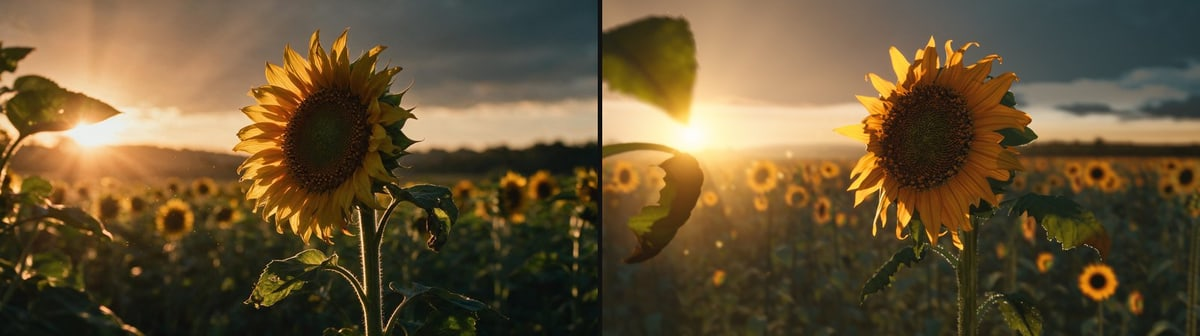
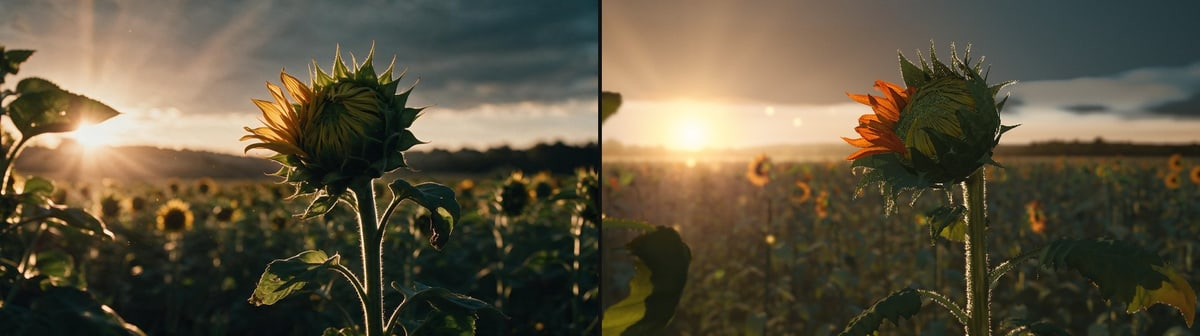
Status 26: growth after round 3, stem pass 4 and ground step 2 merged, decisions logged

diff --git a/kit/PROGRESS.md b/kit/PROGRESS.md
@@ -14,8 +14,8 @@ The Builder's memory. Read this first in every task. Update it before every comm
 - Extensions: 0
 - Extension step: none
 - App URL: https://sunflower-film.pplx.app
-- Last push: 2026-11-21 10:43 UTC · Round 3 judged: R1 5, R3 4, R4 4, jury passes; summary and Status 25; bud, petals, skin, golden, stem and field merged
-- Last status: 25 · 2026-11-21 10:42 UTC · Phase 3 · unit bloom
+- Last push: 2026-11-21 11:09 UTC · Status 26: growth after round 3, stem pass 4 and ground step 2 merged, decisions logged
+- Last status: 26 · 2026-11-21 11:07 UTC · Phase 3 · unit bloom
 
 "Build" is one of `not started`, `in progress`, `complete` or `extension N in progress`. "Budget" is one of `running` or `reported`. `AGENTS.md` says what each means.
 
@@ -23,6 +23,7 @@ The Builder's memory. Read this first in every task. Update it before every comm
 
 Newest first. Each line names the pictures of one status in `out/stills/status/`, with the time and the caption, so this page shows where the film is.
 
+- 2026-11-21 11:07 UTC · status 26 · Phase 3 · unit bloom · `status-1.jpg`: 39.5 s to 51.5 s after the growth change (drafts): the frost bud, then the bloom about every second; `status-2.jpg`: 45.0 s: approved left, ours right (draft); `status-3.jpg`: 50.5 s: approved left, ours right (draft)
 - 2026-11-21 10:42 UTC · status 25 · Phase 3 · unit bloom · `status-1.jpg`: 45.0 s: approved (left), film now (right); `status-2.jpg`: 50.5 s: approved (left), film now (right); `status-3.jpg`: The head at 45 s: approved (left), film now (right); `status-4.jpg`: The head at 50.5 s: approved (left), film now (right)
 - 2026-11-21 10:18 UTC · status 24 · Phase 3 · unit bloom · `status-1.jpg`: Frame 1350 as round 3 judges it, final tier (right), beside the approved image (left); `status-2.jpg`: Frame 1515 as round 3 judges it, final tier (right), beside the approved image (left); `status-3.jpg`: Next build, not yet judged: the rays open as a front from the sun side, 43 to 50.5 s (rendered by an agent from the growth branch); `status-4.jpg`: Next build, not yet judged: glow and shafts in place of the star spikes at 45 s (above), the approved image (below)
 - 2026-11-21 09:55 UTC · status 23 · Phase 3 · unit bloom · `status-1.jpg`: Frame 1350 (45.0 s): approved image left, build right; `status-2.jpg`: Frame 1515 (50.5 s): approved image left, build right
@@ -34,7 +35,6 @@ Newest first. Each line names the pictures of one status in `out/stills/status/`
 - 2026-11-21 06:54 UTC · status 17 · Phase 2 · `status-1.jpg`: Whole film, frames 0 to 565 (dawn, rain); `status-2.jpg`: Whole film, frames 617 to 1183 (rain, night, frost); `status-3.jpg`: Whole film, frames 1234 to 1799 (bloom, field); `status-4.jpg`: Autopilot on the hosted app: seven screenshots taken while the film played
 - 2026-11-21 06:39 UTC · status 16 · Phase 2 · `status-1.jpg`: Whole film, frames 0 to 565 (dawn, rain); `status-2.jpg`: Whole film, frames 617 to 1183 (rain, night, frost); `status-3.jpg`: Whole film, frames 1234 to 1799 (bloom, field); `status-4.jpg`: Frame 1333 in the focus view: green is the sharp zone. It is a ring round the closed bud where it should be the bud's face
 - 2026-11-21 06:04 UTC · status 15 · Phase 2 · round 2 · `status-1.jpg`: The head from 41 s to 58.5 s after the fix, ten frames in order: it turns one way only; `status-2.jpg`: Bloom-opening and bloom-hero keys: approved image (left), blockout frame (right); `status-3.jpg`: Night, frost and field keys: approved image (left), blockout frame (right)
-- 2026-11-21 05:31 UTC · status 14 · Phase 2 · round 2 · `status-1.jpg`: The film from 40 to 60 s after the round 1 fixes, twelve frames in order; `status-2.jpg`: Night, frost and bloom-opening keys: approved image (left), blockout frame (right); `status-3.jpg`: Bloom-hero and field keys: approved image (left), blockout frame (right)
 
 ## Clock
 
@@ -45,11 +45,11 @@ Copied from the output of `npm run clock` at every status. Working time only.
 | 0 | 1.50 h | 1.08 h |
 | 1 | 0.50 h | 0.05 h |
 | 2 | 3.50 h | 4.92 h |
-| 3 | 9.00 h | 3.80 h |
+| 3 | 9.00 h | 4.21 h |
 | 4 | 8.50 h | 0.00 h |
 | 5 | 3.00 h | 0.00 h |
 | 6 | 4.00 h | 0.00 h |
-| Whole build | 30.00 h | 9.85 h |
+| Whole build | 30.00 h | 10.26 h |
 
 Continuations and extensions are listed under this table with their own hours.
 
@@ -388,6 +388,12 @@ One line each: the date, the phase, the decision and why.
 - 2026-11-21 · Phase 3 · 10:21 to 10:24 UTC: `main` went from `3b38ab9` to `09ef64a` by fast forward to a branch prepared in a second working tree while the round's renders ran, so the main tree was never edited under a render. In order: the Builder's growth change for 45 s (`f01526d`), the lens pass 4 (`8270a2e`: the star spikes replaced by a soft glow that follows the visible sun), the field (`1056083`), the ground (`24326dd`) with `1b437f0` in `src/director/film.ts` (the ground's casters in the scene and shadow lists, the ground hidden when the plant is shown alone, the shadow map never narrower than the smaller of what is seen and half a meter), the golden world (`3658c00`), the leaves (`24691a8`: stalks about 7 mm thick, larger upper blades, hairs on the margins). Checked on `main`: type check and build clean, 86 of 86 tests, frames 1350 and 1515 at `review` beside the approved pair, frames 45, 420, 780, 1080 and 1755 at `draft`. Round 3 still judges `3e10245`; all of this is judged in round 4.
 - 2026-11-21 · Phase 3 · What the round 3 critics said about the cut at 40.00 s, checked against the film. R4 scores 4 with one severe issue (the plant swaps shape in one frame) and two majors about the same cut (the horizon steps, the camera's speed changes). Measured: frames 1199 and 1200 on `main` show the same head and the same leaves in the same places (`out/work/scratch/view/cut-1199-1200.jpg`); G12 finds every cut's worst step at 1.00 of 1.5 for the plant's shape and the camera; the camera path gives a horizon that climbs 0.64 px a frame and a far point that pans 2.09 px a frame at 1920 wide on both sides of the cut, with no step (`out/work/scratch/cutcam.ts`). So the geometry and the move are continuous and the film's rule holds. What differs is how each world shows them: fog light shows the pale underside of the head and every leaf in grey, the golden backlight shows a dark ball and loses the right leaf against the dark field; the fog hides everything far, so the move only becomes visible after the cut; the golden world has hills above the field's edge where the fog shows only the edge. The kit lets a severe or major issue be declined only against an approved image, a choice of Brandon's or a settled line, so none of the three is declined. They are open issues of the cut with two owners: `bloom` must show the plant's form in the shade in its first frames (the skin's raised shade, less lift taken away by the lens), and in Phase 4 the `frost` unit lights the bud so that it reads closed, draws the same ridge faintly through its fog at the same height and keeps something far in view that shows the move.
 
+- 2026-11-21 · Phase 3 · Round 3 briefs went to eleven agents at about 10:52 UTC (`out/work/briefs/p3/r3/`): each got the round's issues for its part with the critic's words, the measured targets from the approved pair, and a report time of 11:35 UTC. `harness_builder` now fits the companion (the neighbor at the left edge) on a new branch `agent/companion` and reports numbers and a patch that the Builder applies; `disc_builder` is back at work on the round's three notes for the disc.
+- 2026-11-21 · Phase 3 · G3 was red in round 3 (two renders of frame 1515 differed). `modes_builder` found the cause: the leaf shader discarded the pixels of a leaf's holes before it took screen derivatives, so the derivatives beside a hole were undefined and changed from run to run. Its fix (`50cd31b`) cuts the holes after shading; it ran `npm run determinism` green with it. Merged at `b3fcf5d` (10:54 UTC) with the lens pass 5 (`c86bb30`: shafts with a floor under a covered sun, glow over the hill edge, grain by tone) and the hairs' pass 4 (`a4e1dbd`: the fringe holds what a silhouette can carry, warm white).
+- 2026-11-21 · Phase 3 · The Builder's growth change after round 3 (`753a60d`, `src/plant/growth.ts`). Why: at 45.0 s the approved bud sits at 0.565, 0.36 of the frame with full length rays lifting on the sun side, and ours sat right of it with short stubs; at 50.5 s a leaf crossed the head. What: the head's elevation at `turnStart` goes from 13 to 34 degrees, so the head turns to the lens late and at 45 s lies where the approved one does; rays grow folded inside the shut bud during the bud stage (from 0.58 to 0.87 of it, 36.0 to 41.5 s) and only stretch the last 15 percent as they open; rays open as a front inside the bloom stage, the sector at the sun side first (from `bloom0`), then round the head both ways, the far side last (ending 0.3 s before `bloom1`), each ray taking 3 s; `RAY_FIRST` 2.4 to 3.2; the leaves at 0.7 to 0.83 of the stem grow a quarter longer between 36 and 44 s; the top leaf is half as long so it stays off the head. The stem is not thickened: measured at 50.5 s ours and the approved one are both 62 to 64 px wide at 1920. Leaf droop is unchanged.
+- 2026-11-21 · Phase 3 · One assertion of the Builder's own test changed with that growth change, and why. `tests/plant.test.ts` asserted that a ray has no length one second before the bloom stage. `kit/02-SUBJECT.md` puts the unfurling in `bloom` ("Yellow petals unfurl from the rim") and the swelling in `bud` ("It swells"); it does not say when a ray gains its length, and a ray that lengthens across an open disc is what round 3 marked. So a ray may grow folded and unseen inside the shut bud in the bud stage. The test now asserts no length at the start and at the middle of the bud stage; that nothing opens before `bloom0` and everything is open at `bloom1` is asserted as before. The test of the companion at the frost key (`tests/companion.test.ts`) was not touched: the longer leaves put 27 points of the companion in frame at frame 899, so the leaf change is held back until 36 s instead.
+- 2026-11-21 · Phase 3 · 11:03 UTC: the stem's pass 4 (`28f3e25`, merged at `8c4ab88`: the stem swells at each node and a cushion rises under each stalk, softer ribs, less sheen, a darker greener body; its pixel at 50.5 s went from 41,39,15 to 34,36,16 against the approved 25,29,12) and the ground's step 2 (`b03f405`, merged at `653c869`: a heap of 80 crumbly lumps round the plant, grit and sparkle on loose soil, water in broad hollows) are on `main`. The ground agent corrected its own earlier numbers: they were read at the `draft` tier. At `review`: M3 at frame 45 is 0.822 and at frame 195 1.000 (0.8 needed), not yet read at `final`; at the rain frame 420 it is 0.779, a fail the agent is working on. The stem agent notes that the background beside the stem is 55,52,30 at 50.5 s against 22,27,17 in the approved image, so a darker stem alone cannot reach the approved pixel; that is the field's and the haze's.
+
 ## Notes from Brandon
 
 Anything Brandon wrote in the task thread, in his words, with the time and what was done about it.
@@ -448,6 +454,8 @@ Ten agents of the look lock, all started 2026-11-21 07:16 UTC as sandbox agents 
 | `ground_builder` | `src/ground/` except `puddles/` and `frost/`, assets `ground` | `agent/ground` | Step 1: the soil under the crop from a scanned material, tilled rows, no stand-in in a bloom frame. Step 2: the meter round the plant as real geometry, the grass strip, the states | started 08:57 UTC (sandbox, default model); step 1 reported 09:13 UTC at `d20466e`, merged at `2399052` (09:15); step 2 first report 09:39 UTC at `4e72577` (the meter round the plant as geometry, crumbs and clods, grass that grows with the film; it asks for the ground in the shadow pass and a wider shadow map at dawn, both in `src/director/film.ts`); not merged yet, next report by 10:20 |
 | `harness_builder` (again) | `tools/pack.ts` and what it needs under `tools/` | `agent/tools` | The packs of a unit's round: R1, R2, R3 and R4 as `kit/07-QUALITY-BAR.md` lists them, neutral names, key outside | reported 09:38 UTC at `4343121`, merged at `a0447d6` (09:39); idle |
 | `modes_builder` (again) | nothing; it reports a cause and a patch | `agent/probe-determinism` | Why frame 1515 rendered twice is not pixel identical on `main` | reported 09:36 UTC with the cause and `873ceaf`, merged at `5f9baa9` (09:37); idle |
+
+State at 11:10 UTC, after round 3 (12 running, the limit): `bud_builder`, `petal_builder`, `skin_builder`, `stem_builder` (pass 4 merged at `8c4ab88`, checks the node under the new growth next), `leaf_builder`, `field_builder`, `golden_builder`, `hair_builder` (pass 4 merged at `a4e1dbd`), `lens_builder` (pass 5 merged at `c86bb30`), `disc_builder` (round 4 pass reported 11:08 UTC at `9b6c550`, to merge), `harness_builder` (the companion's place, lean and leaf turn, on `agent/companion`), `ground_builder` (step 2 merged at `653c869`; next the cost and the rain frame). All report by 11:35 UTC. `modes_builder` reported the determinism cause at about 10:50 UTC (`50cd31b`, merged at `b3fcf5d`) and is idle. Critics `reviewer_03` to `reviewer_05` and jurors `reviewer_06` to `reviewer_25` are idle between rounds.
 
 Finished in this task:
 
@@ -560,6 +568,7 @@ One line per push: the date, the commit and what it carried. A failed push is lo
 - 2026-11-21 10:18 UTC · Status 24: round 3 judged, measures in, the bud at 45 s read again and the growth change prepared on a branch
 - 2026-11-21 10:34 UTC · Round 3: packs built, R1 5, R3 4, R4 4 saved word for word; main holds the growth, lens, field, ground, golden and leaf merges
 - 2026-11-21 10:43 UTC · Round 3 judged: R1 5, R3 4, R4 4, jury passes; summary and Status 25; bud, petals, skin, golden, stem and field merged
+- 2026-11-21 11:09 UTC · Status 26: growth after round 3, stem pass 4 and ground step 2 merged, decisions logged
 
 ## Session log
 
@@ -620,4 +629,6 @@ One entry per task: when it started, the prompt it was started with, what it did
   Pictures: Frame 1350 as round 3 judges it, final tier (right), beside the approved image (left); Frame 1515 as round 3 judges it, final tier (right), beside the approved image (left); Next build, not yet judged: the rays open as a front from the sun side, 43 to 50.5 s (rendered by an agent from the growth branch); Next build, not yet judged: glow and shafts in place of the star spikes at 45 s (above), the approved image (below).
 - Status 25, 2026-11-21 10:42 UTC, Phase 3 · unit bloom. Round 3 is judged: not a pass. R1 (match) 5, R3 (surface) 4, R4 (motion) 4, the jury passes (7 of 10 votes on our frames were film, 6 of 10 on the approved images), one machine check red (2 pixels of frame 1515 differ between two renders), sharpness short at 45 s. 8 severe and 19 major issues, the heaviest: the head at 45 s, the star spikes on the sun, the blurred neighbor at the left edge, the field of small sharp heads. Since the judged build, merged: the lens without star spikes, the bud's bracts wrapped over the shut rays, the shut rays as ridged straps, deeper orange rays, larger and more varied heads in the field, the skin without its bright outline, thick leaf stalks. Next: Fix pass, at most 90 minutes: the head more upright and higher at 45 s, each ray opening over three seconds so the first are half lifted at 45 s and the last still fold over the disc at 50.5 s, more and smaller bracts with a taller crown, the neighbor moved to the hero's depth, the fringe of hairs on both outlines of the stem. Then round 4. Time used: 9.9 h of 30 h.
   Pictures: 45.0 s: approved (left), film now (right); 50.5 s: approved (left), film now (right); The head at 45 s: approved (left), film now (right); The head at 50.5 s: approved (left), film now (right).
+- Status 26, 2026-11-21 11:07 UTC, Phase 3 · unit bloom. After Round 3 (not a pass): two renders of a frame now agree again (the leaf holes were cut before shading); the head turns to the lens late, so at 45 s it sits where the approved one does; rays grow folded inside the bud and open as a front from the sun side within the bloom stage; upper leaves a quarter longer, the top leaf halved so it stays off the head. Stem pass 4 and the ground's lumps are merged; twelve agents are on the Round 3 issues. Next: Share the focus between the face and the stem under it, merge the agents' passes by 11:50 UTC, then Round 4 at about 12:00 UTC. Time used: 10.3 h of 30 h.
+  Pictures: 39.5 s to 51.5 s after the growth change (drafts): the frost bud, then the bloom about every second; 45.0 s: approved left, ours right (draft); 50.5 s: approved left, ours right (draft).
 

diff --git a/out/stills/status/STATUS.md b/out/stills/status/STATUS.md
@@ -1,12 +1,11 @@
-# Status 25
+# Status 26
 
-2026-11-21 10:42 UTC
+2026-11-21 11:07 UTC
 
-- Status 25 · Phase 3 · unit bloom. Round 3 is judged: not a pass. R1 (match) 5, R3 (surface) 4, R4 (motion) 4, the jury passes (7 of 10 votes on our frames were film, 6 of 10 on the approved images), one machine check red (2 pixels of frame 1515 differ between two renders), sharpness short at 45 s. 8 severe and 19 major issues, the heaviest: the head at 45 s, the star spikes on the sun, the blurred neighbor at the left edge, the field of small sharp heads. Since the judged build, merged: the lens without star spikes, the bud's bracts wrapped over the shut rays, the shut rays as ridged straps, deeper orange rays, larger and more varied heads in the field, the skin without its bright outline, thick leaf stalks.
-- Next: Fix pass, at most 90 minutes: the head more upright and higher at 45 s, each ray opening over three seconds so the first are half lifted at 45 s and the last still fold over the disc at 50.5 s, more and smaller bracts with a taller crown, the neighbor moved to the hero's depth, the fringe of hairs on both outlines of the stem. Then round 4. Time used: 9.9 h of 30 h.
+- Status 26 · Phase 3 · unit bloom. After Round 3 (not a pass): two renders of a frame now agree again (the leaf holes were cut before shading); the head turns to the lens late, so at 45 s it sits where the approved one does; rays grow folded inside the bud and open as a front from the sun side within the bloom stage; upper leaves a quarter longer, the top leaf halved so it stays off the head. Stem pass 4 and the ground's lumps are merged; twelve agents are on the Round 3 issues.
+- Next: Share the focus between the face and the stem under it, merge the agents' passes by 11:50 UTC, then Round 4 at about 12:00 UTC. Time used: 10.3 h of 30 h.
 - Review page: https://sunflower-film.pplx.app/review.html
 
-- `status-1.jpg`: 45.0 s: approved (left), film now (right)
-- `status-2.jpg`: 50.5 s: approved (left), film now (right)
-- `status-3.jpg`: The head at 45 s: approved (left), film now (right)
-- `status-4.jpg`: The head at 50.5 s: approved (left), film now (right)
+- `status-1.jpg`: 39.5 s to 51.5 s after the growth change (drafts): the frost bud, then the bloom about every second
+- `status-2.jpg`: 45.0 s: approved left, ours right (draft)
+- `status-3.jpg`: 50.5 s: approved left, ours right (draft)
